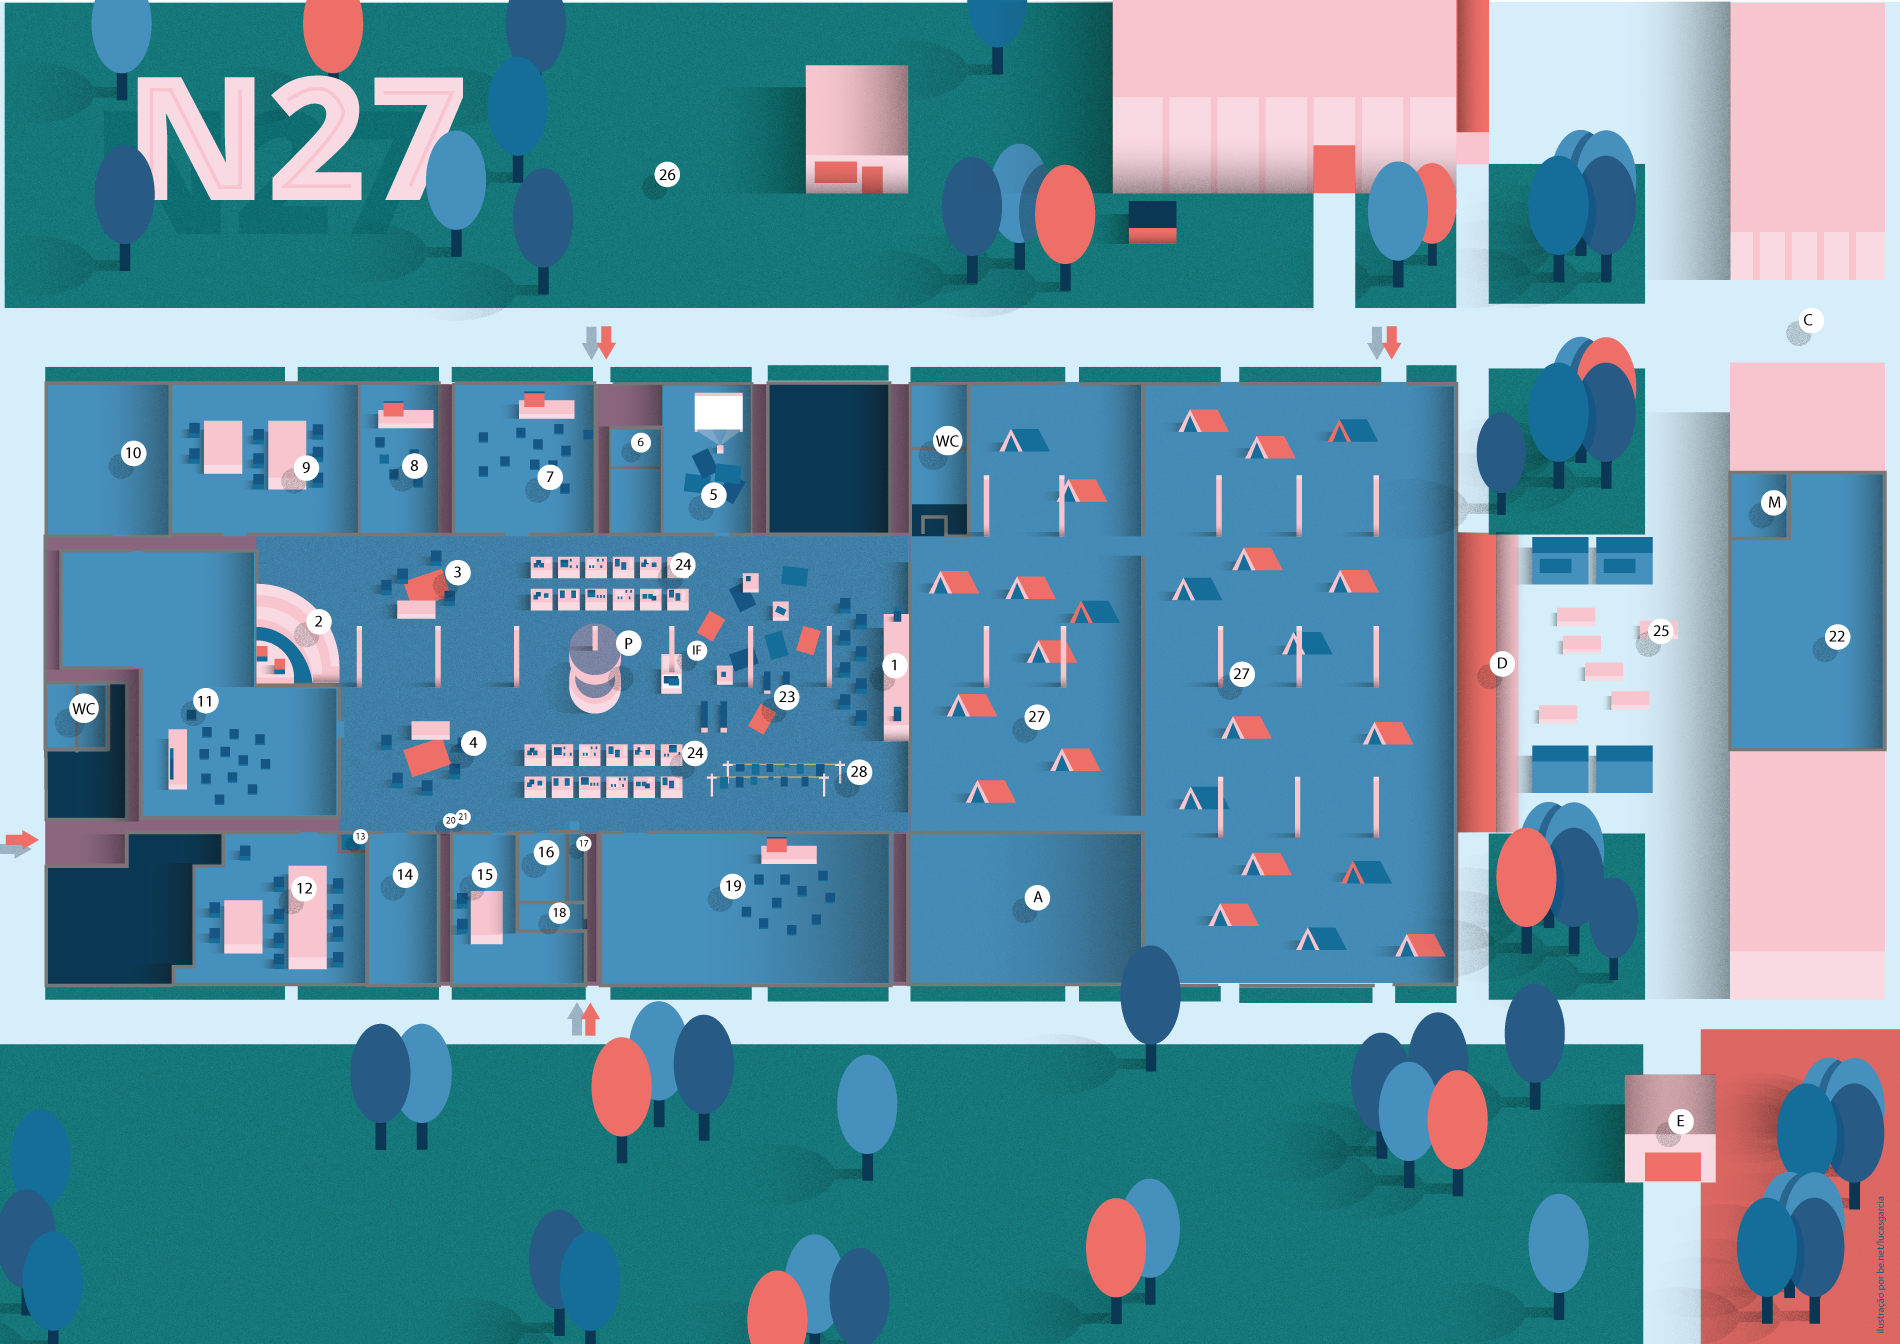
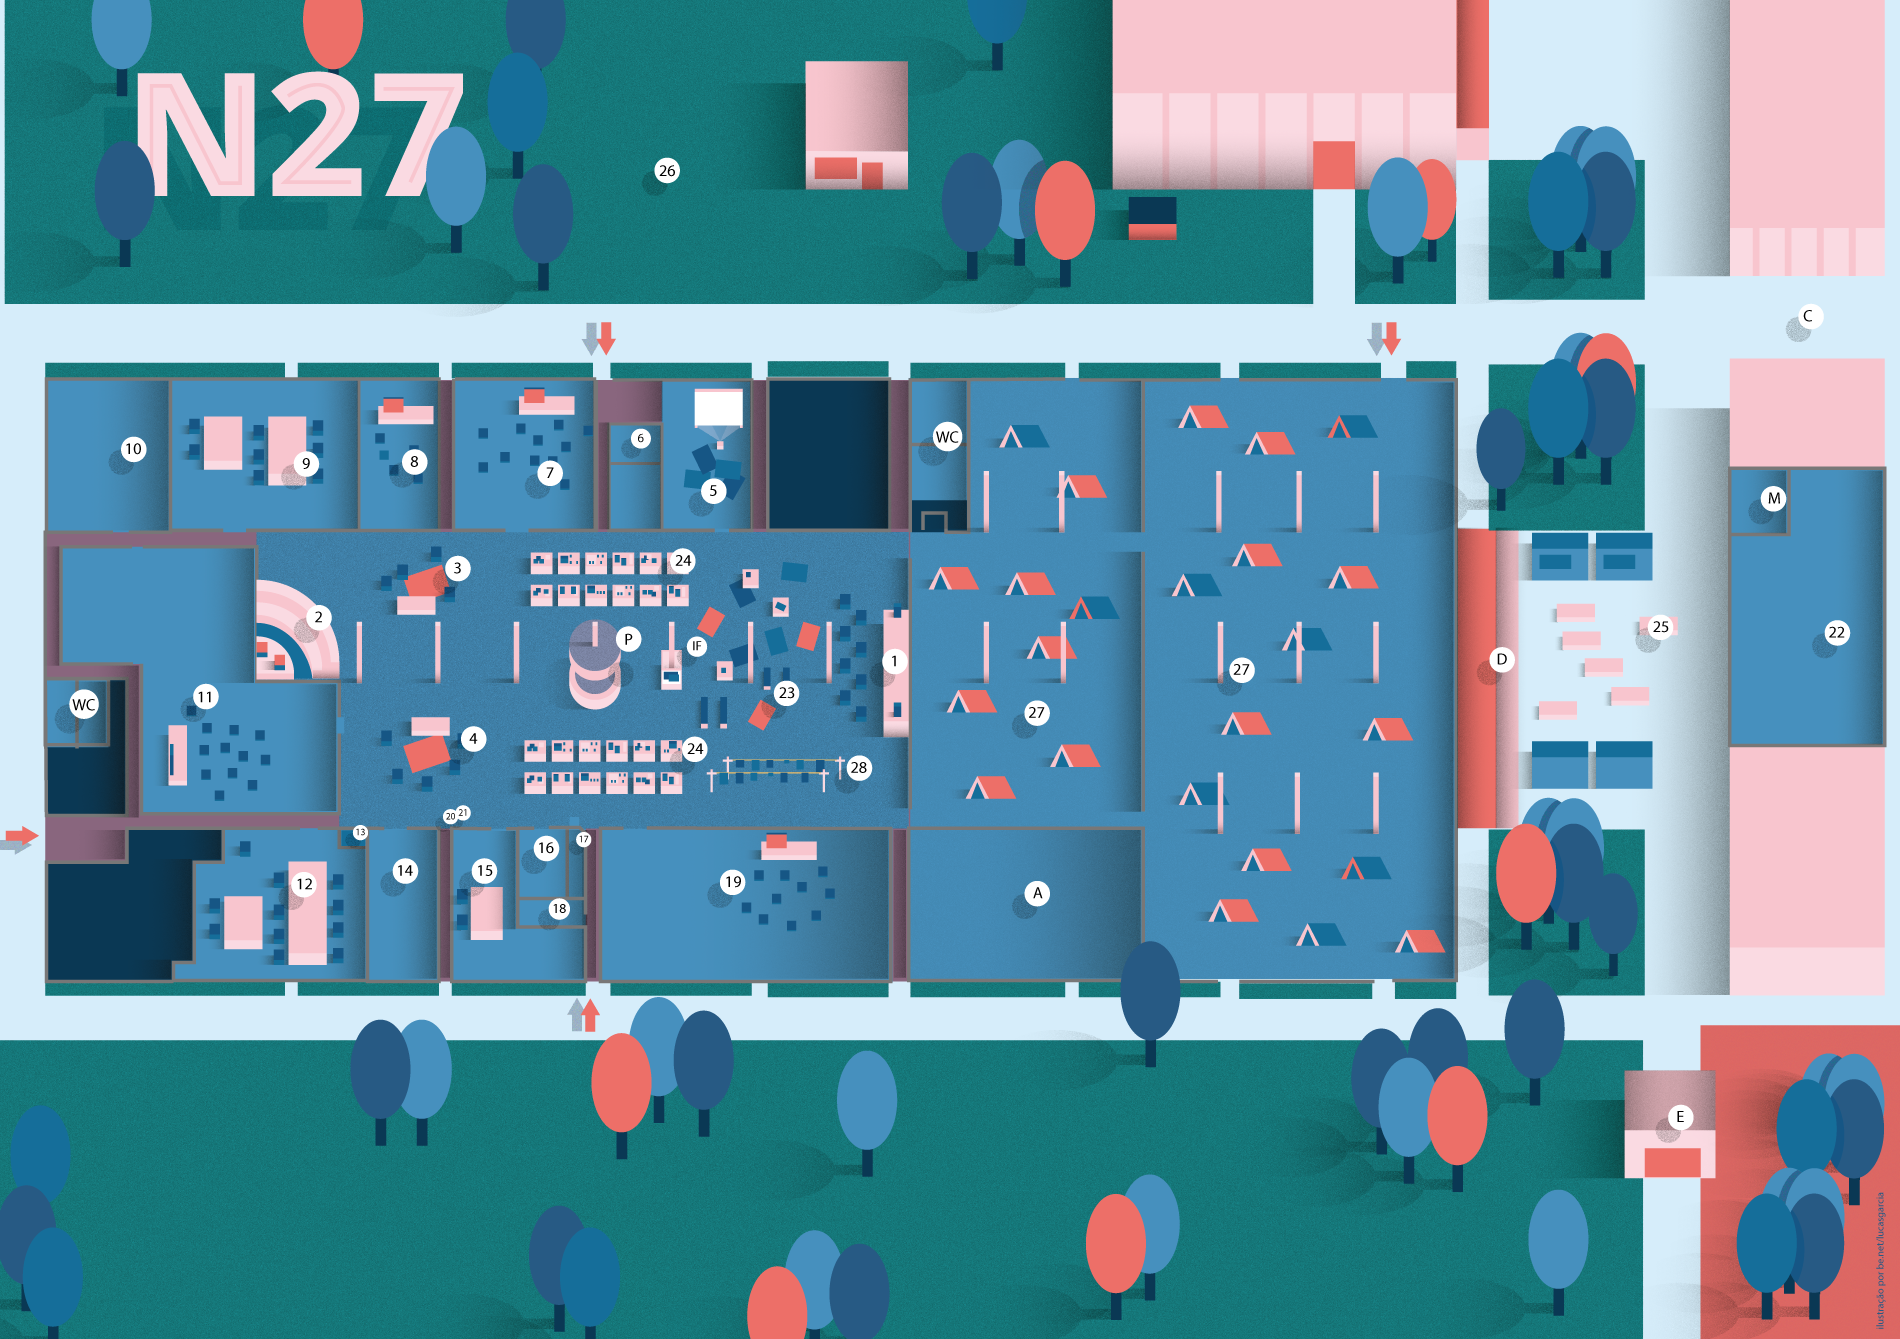
Maps page is done.

diff --git a/front/src/components/Pages/Maps.vue b/front/src/components/Pages/Maps.vue
@@ -1,17 +1,20 @@
 <template>
-  <div class="container container-maps">
+  <div class="container container-maps" v-on:mousemove="getCoord()">
     <div class="col s12 m8">
 
+        <div class="mousePosition">{{coord.x}} - {{coord.y}} | moveTo: {{moveTo}}</div>
+
         <figure id="map">
-          <img src="/static/img/map.png" />
+          <img src="/static/img/target.svg" class="pointer" style="left: 0px; top: 0px">
+          <img src="/static/img/map.png" id="mapimg">
         </figure>
 
         <nav class="blue lighten-2 bottom-navbar">
           <div class="nav-wrapper">
             <div class="input-field">
-              <select>
-                <option value="" disabled selected>Selecione um local</option>
-                <option v-for="place in places" :key="place" value="1">{{place}}</option>
+              <select v-model="moveTo" v-on:change="moveMap()" name="selectPoint" id="selectPoint">
+                <option value="" disabled>Selecione um local</option>
+                <option v-for="place in places" :key="place.id" :value="place.id">{{place.id}} - {{place.name}}</option>
               </select>
             </div>
           </div>
@@ -28,50 +31,215 @@
     name: 'map',
     data () {
       return {
+        coord: {
+          x: 0,
+          y: 0
+        },
+        moveTo: '',
         places: [
-          '1 - Palco Principal',
-          '2 - Arena',
-          '3 - Roda de Conversa 1 ',
-          '4 - Roda de conversa 2 ',
-          '5 - Sala de Projeção',
-          '6 - Instalação 1',
-          '7 - Mini Palco 1 ',
-          '8 - Mini Palco 2 ',
-          '9 - Ateliê ',
-          '10 - Sala Multi 1 ',
-          '11 - Mini Palco 3 ',
-          '12 - Fab Lab ',
-          '13 - Instalação',
-          '14 - Sala Multi 2 ',
-          '15 - Laboratório de Impressão',
-          '16 - Sala Multi 3 ',
-          '17 - Sala do CoNE',
-          '18 - Instalação',
-          '19 - Mini Palco 4 ',
-          '20 - Studio',
-          '21 - Sala do Silêncio',
-          '22 - Cozinha / Refeitório',
-          '23 - Espaço de Convivência',
-          '24 - Bazar',
-          '25 - Praça de Alimentação',
-          '26 - Gramados',
-          '27 - Alojamento',
-          '28 - Exposições livres',
-          'WC - banheiros',
-          'C - Chuveiros',
-          'M - Mercado',
-          'P - Ponto de Encontro',
-          'IF - Grade, Grade preencha e Mapa',
-          'D - Docas',
-          'E - Entrada',
-          'A - Almoxarifado',
+          {
+            id: 1,
+            name: 'Palco Principal',
+            coord: [804, 593]
+          },
+          {
+            id: 2,
+            name: 'Arena',
+            coord: [286, 554]
+          },
+          {
+            id: 3,
+            name: 'Roda de Conversa 1 ',
+            coord: [409, 509]
+          },
+          {
+            id: 4,
+            name: 'Roda de conversa 2 ',
+            coord: [425, 659]
+          },
+          {
+            id: 5,
+            name: 'Sala de Projeção',
+            coord: [641, 438]
+          },
+          {
+            id: 6,
+            name: 'Instalação 1',
+            coord: [572, 393]
+          },
+          {
+            id: 7,
+            name: 'Mini Palco 1 ',
+            coord: [492, 422]
+          },
+          {
+            id: 8,
+            name: 'Mini Palco 2 ',
+            coord: [371, 413]
+          },
+          {
+            id: 9,
+            name: 'Ateliê ',
+            coord: [274, 416]
+          },
+          {
+            id: 10,
+            name: ' Sala Multi 1 ',
+            coord: [120, 403]
+          },
+          {
+            id: 11,
+            name: 'Mini Palco 3 ',
+            coord: [183, 622]
+          },
+          {
+            id: 12,
+            name: 'Fab Lab ',
+            coord: [273, 792]
+          },
+          {
+            id: 13,
+            name: 'Instalação',
+            coord: [321, 748]
+          },
+          {
+            id: 14,
+            name: 'Sala Multi 2 ',
+            coord: [361, 780]
+          },
+          {
+            id: 15,
+            name: 'Laboratório de Impressão',
+            coord: [433, 782]
+          },
+          {
+            id: 16,
+            name: 'Sala Multi 3 ',
+            coord: [489, 759]
+          },
+          {
+            id: 17,
+            name: 'Sala do CoNE',
+            coord: [523, 754]
+          },
+          {
+            id: 18,
+            name: 'Instalação',
+            coord: [500, 814]
+          },
+          {
+            id: 19,
+            name: 'Mini Palco 4 ',
+            coord: [656, 790]
+          },
+          {
+            id: 20,
+            name: 'Studio',
+            coord: [402, 732]
+          },
+          {
+            id: 21,
+            name: 'Sala do Silêncio',
+            coord: [413, 727]
+          },
+          {
+            id: 22,
+            name: 'Cozinha / Refeitório',
+            coord: [1646, 568]
+          },
+          {
+            id: 23,
+            name: 'Espaço de Convivência',
+            coord: [705, 620]
+          },
+          {
+            id: 24,
+            name: 'Bazar',
+            coord: [622, 669]
+          },
+          {
+            id: 25,
+            name: 'Praça de Alimentação',
+            coord: [1489, 562]
+          },
+          {
+            id: 26,
+            name: 'Gramados',
+            coord: [599, 152]
+          },
+          {
+            id: 27,
+            name: 'Alojamento',
+            coord: [1111, 598]
+          },
+          {
+            id: 28,
+            name: 'Exposições livres',
+            coord: [768, 687]
+          },
+          {
+            id: 'WC' ,
+            name: 'Banheiros',
+            coord: [75, 629]
+          },
+          {
+            id: 'C',
+            name: 'Chuveiros',
+            coord: [1623, 284]
+          },
+          {
+            id: 'M',
+            name: 'Mercado',
+            coord: [1589, 447]
+          },
+          {
+            id: 'P',
+            name: 'Ponto de Encontro',
+            coord: [562, 571]
+          },
+          {
+            id: 'IF',
+            name: 'Grade, Grade preencha e Mapa',
+            coord: [622, 579]
+          },
+          {
+            id: 'D',
+            name: 'Docas',
+            coord: [1345, 591]
+          },
+          {
+            id: 'E',
+            name: 'Entrada',
+            coord: [1507, 1001]
+          },
+          {
+            id: 'A',
+            name: 'Almoxarifado',
+            coord: [928, 799]
+          }
         ]
       }
     },
+    methods: {
+      getCoord: function() {
+          var rect = document.getElementById('mapimg').getBoundingClientRect();
+          this.coord.x = event.clientX - rect.left
+          this.coord.y = event.clientY - rect.top
+      },
+      moveMap: function() {
+        var moveTo = this.places.find(place => place.id == this.moveTo)
+        console.log(moveTo.coord)
+        $('#map').scrollLeft(moveTo.coord[0] - 150)
+        $('#map').scrollTop(moveTo.coord[1] - 150)
+
+        $('.pointer').css({
+          left: moveTo.coord[0] - 67,
+          top: moveTo.coord[1] - 50
+        }).show()
+      }
+    },
     mounted: function() {
-        $(document).ready(function() {
-            $('select').material_select();
-        });
+        
     },
   }
 </script>
@@ -91,9 +259,10 @@
         width: 100%;
         height: calc(100vh - 100px);
         overflow: auto;
+        position: relative;
 
         img {
-          max-height: 150%;
+          max-height: 1200px;
         }
       }
 
@@ -102,9 +271,45 @@
         bottom: 0;
         padding: 5px 15px 0;
 
-        input.select-dropdown {
-            border-color: white !important;
+        select {
+          background: none;
+          width: 100%;
+          padding: 5px;
+          border: none;
+          display: block !important;
+          border-radius: 2px;
+          height: 3rem;
+          color: #222;
+
+          &:focus {
+            outline: none;
+          }
         }
       }
+    }
+
+    .pointer {
+      position: absolute;
+      top: -100px;
+      left: -100px;
+      animation-duration: 1s;
+      animation-name: slidein;
+      animation-iteration-count: infinite;
+      display: none;
+
+      @keyframes slidein {
+        0% {width: 60px;}
+        50% {width: 50px;}
+        100% {width: 60px;}
+      }
+    }
+
+    .mousePosition {
+      position: fixed;
+      right: 0;
+      top: 60px;
+      background: rgba(255,255,255,0.8);
+      padding: 15px;
+      z-index: 1000
     }
 </style>

diff --git a/back/admin.example.py b/back/admin.example.py
@@ -1,2 +1,2 @@
 ADMIN_USERS = ['{"email":"","senha":""}', ]
-ADMIN_REPONSE = '[{"Action":"Redir_Admin","Redir":"\/dashboard"}]'
+ADMIN_RESPONSE = '[{"Action":"Redir_Admin","Redir":"\/dashboard"}]'
